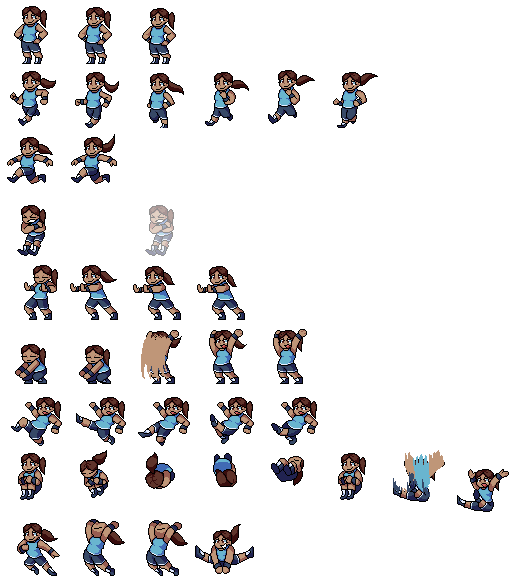
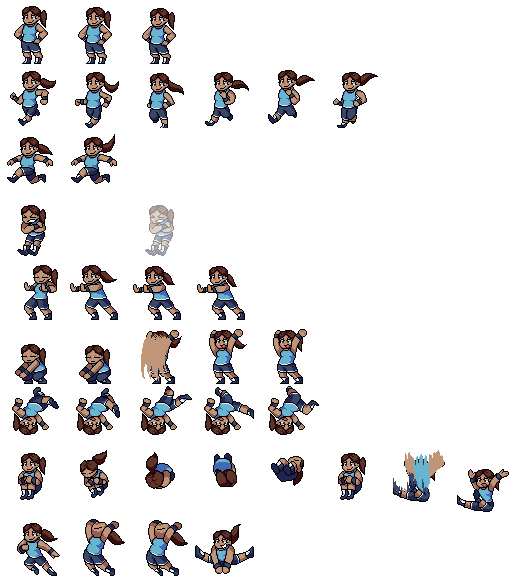
""Bicycle Kick"" + nerfs to signature

Changed region(s): [[0.0, 0.6562, 0.625, 0.7812]]

diff --git a/src/characters/WallTheEncircler.java b/src/characters/WallTheEncircler.java
@@ -9,6 +9,7 @@ import org.dyn4j.geometry.Transform;
 import org.dyn4j.geometry.Vector2;
 
 import characters.characterStates.AttackState;
+import characters.characterStates.IdleState;
 import characters.characterStates.WaitState;
 import graphics.Sprite;
 import graphics.Texture;
@@ -163,7 +164,7 @@ public class WallTheEncircler extends Character
 		{
 			super("smash");
 			setDuration(0.6f);
-			m_hitbox.setDamage(8);
+			m_hitbox.setDamage(7);
 			m_hitbox.setBaseKnockback(new Vector2(-10 * getFacing(), -5));
 			m_hitbox.setScaledKnockback(new Vector2(-8 * getFacing(), -4));
 			m_hitbox.setDuration(0.5f);
@@ -176,7 +177,7 @@ public class WallTheEncircler extends Character
 		
 		protected void init()
 		{
-			m_body.applyImpulse(new Vector2(5 * getFacing(), 0));
+			m_body.applyImpulse(new Vector2(-5 * getFacing(), 0));
 			addHitbox(m_hitbox);
 			m_hitbox.addToFixture(m_fixture);
 			m_body.addFixture(m_fixture);
@@ -198,8 +199,9 @@ public class WallTheEncircler extends Character
 	@Override
 	public void smash() 
 	{
-		pushState(new WaitState(1.0f));
+		pushState(new WaitState(0.6f));
 		pushState(new SmashState());
+		pushState(new WaitState(0.1f));
 	}
 	
 	private class ProjectileState extends AttackState
@@ -208,8 +210,8 @@ public class WallTheEncircler extends Character
 		
 		public ProjectileState()
 		{
-			super("idle", .0f);
-			initChair();
+			super("signature_slam");
+			setDuration(0.3f);
 		}
 		
 		private void initChair()
@@ -221,7 +223,7 @@ public class WallTheEncircler extends Character
 			
 			Hitbox chairHitbox = new Hitbox();
 			chairHitbox.setDuration(3.0f);
-			chairHitbox.setDamage(8);
+			chairHitbox.setDamage(4);
 			chairHitbox.setHitstun(0.2f);
 			chairHitbox.setBaseKnockback(alignFacing(new Vector2(1, 5)));
 			chairHitbox.setScaledKnockback(alignFacing(new Vector2(2, 6)));
@@ -239,7 +241,7 @@ public class WallTheEncircler extends Character
 			
 			Transform t = new Transform();
 			t.translate(m_body.getTransform().getTranslation());
-			t.translate(alignFacing(new Vector2(1, 0.3)));
+			t.translate(alignFacing(new Vector2(0, -1.5)));
 			
 			chairBody.addFixture(chairFixture);
 			chairBody.setMass(MassType.NORMAL);
@@ -268,9 +270,10 @@ public class WallTheEncircler extends Character
 		@Override
 		protected void init()
 		{
+			initChair();
 			chairBody.setGravityScale(1);
-			chairBody.applyImpulse(alignFacing(new Vector2(12, -15)));
-			chairBody.applyTorque(15);
+			chairBody.applyImpulse(alignFacing(new Vector2(12, 15)));
+			chairBody.applyTorque(120);
 		}
 	}
 
@@ -280,7 +283,8 @@ public class WallTheEncircler extends Character
 		//someone time this correctly
 		pushState(new WaitState(0.2f));
 		pushState(new ProjectileState());
-		pushState(new AttackState("projectile", .35f));
+		pushState(new AttackState("signature_slam", 0.1f));
+		pushState(new WaitState(0.2f));
 	}
 
 	WeldJoint hold;
@@ -302,9 +306,10 @@ public class WallTheEncircler extends Character
 			{
 				Hitbox welcomeToTheJam = new Hitbox();
 				welcomeToTheJam.setDamage(8);
-				welcomeToTheJam.setBaseKnockback(alignFacing(new Vector2(.5, -4)));
-				welcomeToTheJam.setScaledKnockback(alignFacing(new Vector2(.3, -2)));
-				welcomeToTheJam.setHitstun(.3f);
+				welcomeToTheJam.setBaseKnockback(alignFacing(new Vector2(10, -6)));
+				welcomeToTheJam.setScaledKnockback(alignFacing(new Vector2(3, -4)));
+				welcomeToTheJam.setHitstun(0.3f);
+				
 				
 				m_opponent.takeHit(welcomeToTheJam);
 				
@@ -336,7 +341,7 @@ public class WallTheEncircler extends Character
 			}
 		};
 		
-		float dashDuration = 1f;
+		float dashDuration = 0.4f;
 		
 		AttackState suplexDash = new AttackState("signature_dash", dashDuration)
 		{
@@ -385,7 +390,7 @@ public class WallTheEncircler extends Character
 				{	
 					Vector2 pos = m_body.getTransform().getTranslation();
 					Transform opT = m_opponent.getBody().getTransform();
-					opT.setTranslation(pos.add(alignFacing(new Vector2(.5, 0))));
+					opT.setTranslation(pos.add(alignFacing(new Vector2(0.5, 0))));
 					
 					m_opponent.getBody().setTransform(opT);
 					
@@ -399,7 +404,7 @@ public class WallTheEncircler extends Character
 				}
 			}
 		};
-		
+		pushState(new WaitState(0.35f));
 		pushState(suplexDash);
 	}
 
